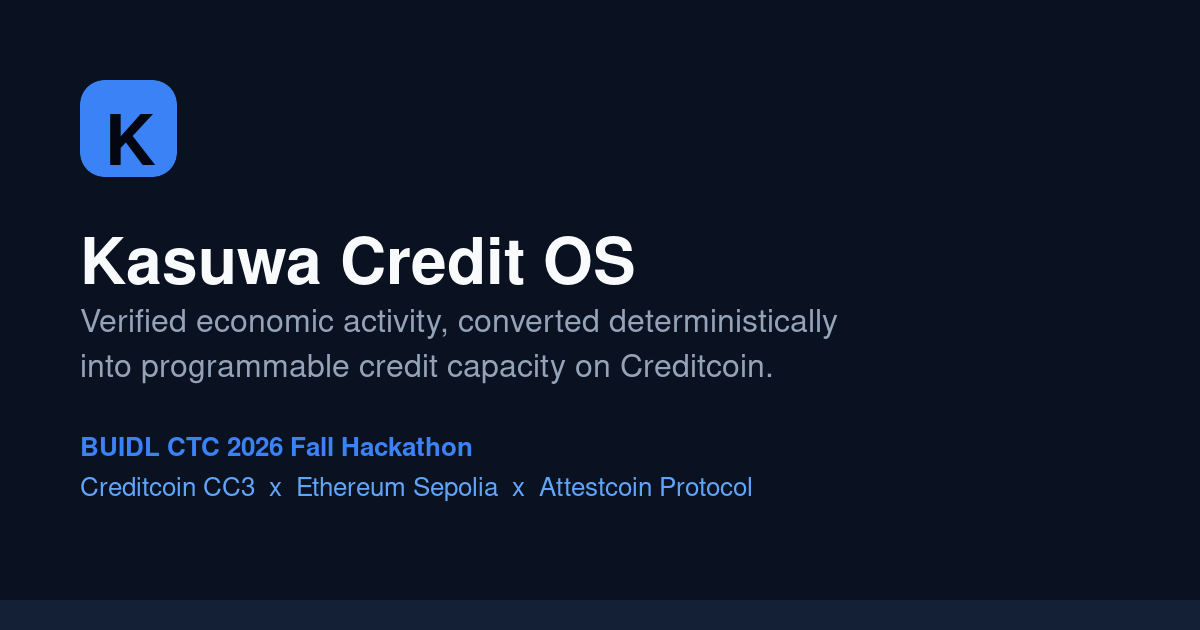
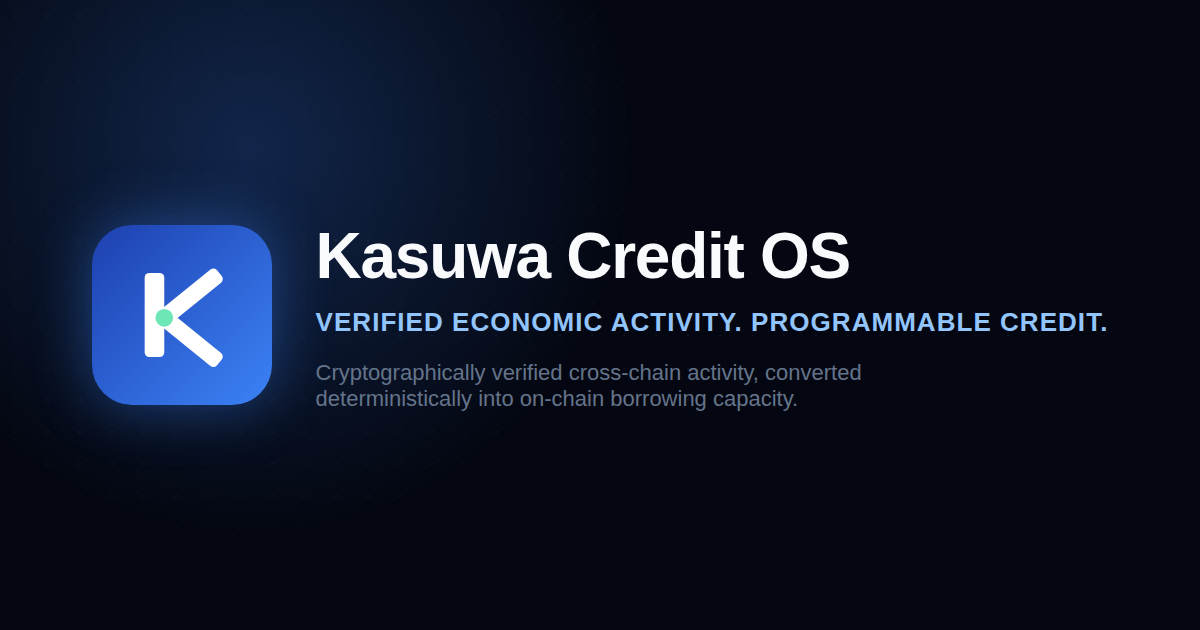
feat(ui): custom geometric brand mark, unified assets, dot-grid texture, restore demo script

Changed region(s): [[0.0308, 0.0302, 0.925, 0.7238], [0.0, 0.9349, 1.0, 1.0], [0.0617, 0.754, 0.6475, 0.7841]]

diff --git a/frontend/index.html b/frontend/index.html
@@ -38,7 +38,12 @@
   <aside class="sidebar" id="app-sidebar">
     <div class="brand-block">
       <div class="brand-gem">
-        <svg viewBox="0 0 24 24"><path d="M12 2L2 7l10 5 10-5-10-5zM2 17l10 5 10-5M2 12l10 5 10-5"/></svg>
+        <svg viewBox="0 0 24 24" class="brand-mark" aria-hidden="true" focusable="false">
+          <rect x="4" y="3" width="4.2" height="18" rx="1"/>
+          <rect x="8.2" y="10.80" width="15.2" height="3.6" rx="1" transform="rotate(-39.0 8.2 12.6)"/>
+          <rect x="8.2" y="10.80" width="15.2" height="3.6" rx="1" transform="rotate(39.0 8.2 12.6)"/>
+          <circle class="brand-mark-node" cx="8.2" cy="12.6" r="1.9"/>
+        </svg>
       </div>
       <div class="brand-text">
         <div class="title">Kasuwa</div>

diff --git a/frontend/css/styles.css b/frontend/css/styles.css
@@ -115,6 +115,8 @@ a:hover {
   display: flex;
   min-height: 100vh;
   background-color: var(--bg-base);
+  background-image: radial-gradient(circle, rgba(148, 163, 184, 0.055) 1px, transparent 1px);
+  background-size: 26px 26px;
   position: relative;
 }
 
@@ -155,9 +157,15 @@ a:hover {
 .brand-gem svg {
   width: 20px;
   height: 20px;
-  stroke: #ffffff;
-  fill: none;
-  stroke-width: 2;
+}
+
+.brand-mark rect,
+.brand-mark circle {
+  fill: #ffffff;
+}
+
+.brand-mark .brand-mark-node {
+  fill: #6ee7b7;
 }
 
 .brand-text .title {

diff --git a/docs/DEMO_VIDEO_SCRIPT.md b/docs/DEMO_VIDEO_SCRIPT.md
@@ -1,0 +1,75 @@
+# Kasuwa Credit OS — Demo Video Script
+Target length: 2:30–3:00. Read it once out loud before recording — trim anything that feels slow.
+
+## Before you hit record
+
+As of this writing, all 7 contracts (the Sepolia source contract plus all 6 CC3 contracts) are deployed and independently verified on Blockscout/Etherscan, so you can say plainly: "the full contract stack is live on Ethereum Sepolia and Creditcoin CC3." Double-check this is still true right before you record (re-run through the Judge Tour once) in case anything changed.
+
+Screen order: Vercel live app → Proof Explorer tab → Security Lab tab → one block explorer tab open in the background (Sepolia or Blockscout) to cut to.
+
+---
+
+## Script
+
+**[0:00–0:15] Hook — cold open on the problem**
+
+> "Merchants across Nigeria generate real transaction history every single day. None of it counts as credit history on-chain. Most DeFi lending still needs crypto collateral — which shuts out exactly the people with the most real economic activity to lend against."
+
+*(Screen: Vercel live app, landing view.)*
+
+**[0:15–0:40] What Kasuwa does**
+
+> "Kasuwa Credit OS turns verified, real-world economic activity into reusable, programmable credit capacity on Creditcoin. Not another isolated lending app — a credit state layer other protocols can build on top of."
+
+*(Screen: click into the Proof Explorer.)*
+
+**[0:40–1:10] Live proof walkthrough**
+
+> "Here's how it actually works. An economic event — a payment, a repayment — happens on Ethereum Sepolia. The Attestcoin Protocol proves that event happened, cryptographically, cross-chain, to Creditcoin. No bridge, no custodian, no relayer you have to trust blindly."
+
+*(Screen: walk the proof timeline step by step — source tx → attestation → verification. Open the raw proof drawer and show the Merkle root / tx receipt for a few seconds.)*
+
+> "This is a real Merkle proof against a real transaction — you can check every value yourself on the block explorer."
+
+**[1:10–1:45] Security Lab — prove the security claim, don't just say it**
+
+> "We don't just claim this is secure — we built in live attack simulators so you can watch it fail safely."
+
+*(Screen: Security Lab tab. Trigger ONE attack live — the replayed attestation or the malicious-AI one is the most visual.)*
+
+> "Watch — I'm trying to replay an already-used proof to double-credit the same transaction." *(click, wait for revert)* "Rejected on-chain: `EvidenceAlreadyConsumed`. No human moderation, no off-chain check — the contract itself refuses it."
+
+> "Same story with AI. Our system lets an AI model *recommend* a loan amount — but the smart contract enforces a hard, deterministic cap no matter what the AI says. AI can advise. AI cannot authorize."
+
+*(Optional, if time allows: switch to the Credit Facility tab and try to draw more than the $2,000 policy ceiling in the live UI — it gets rejected with "POLICY LIMIT EXCEEDED" before it ever reaches the chain. This is a nice second, very visual proof of the same point.)*
+
+**[1:45–2:10] Real evidence, not a local demo**
+
+*(Cut to the block explorer tab you already had open.)*
+
+> "This isn't running against a local test chain for the demo — these are real contracts, real transactions, on Ethereum Sepolia and Creditcoin's CC3 testnet, both deployed from the same wallet, both verifiable right here on the explorer."
+
+*(Screen: scroll the explorer page briefly — transaction hash, contract address visible.)*
+
+**[2:10–2:30] Security honesty beat (this is a differentiator, don't cut it)**
+
+> "We also audited our own threat model and found a real reentrancy bug in our borrow function — and fixed it, with tests that prove the exploit is now blocked. We'd rather show you the bug we found and fixed than pretend there wasn't one."
+
+**[2:30–2:50] Close**
+
+> "Kasuwa Credit OS: verified economic activity, into reusable, programmable credit — for anyone building on Creditcoin. Live demo and full source are linked below."
+
+*(Screen: final frame — logo + URLs.)*
+```
+https://kasuwa-credit-os.vercel.app/
+https://github.com/Xzavior34/kasuwa-credit-os
+```
+
+---
+
+## Delivery notes
+
+- Speak slightly slower than feels natural — judges are often watching at 1.25–1.5x.
+- Don't apologize or hedge on camera ("this is still a work in progress...") — state what's true, plainly, and move on.
+- If a live attack demo call is slow to revert, don't stop recording — a 2–3 second pause while the chain confirms actually reads as authentic, not scripted.
+- Cut ruthlessly if you're over 3:00 — losing the hook or the security section hurts more than losing the closing line.

diff --git a/README.md b/README.md
@@ -10,7 +10,7 @@ application; the credit state is the product — any protocol on Creditcoin can 
 - **Live Production Console**: https://kasuwa-credit-os.vercel.app/
 - **GitHub Repository**: https://github.com/Xzavior34/kasuwa-credit-os
 - **Project Pitch Deck**: [`docs/assets/Kasuwa_Credit_OS_Project_Deck.pdf`](docs/assets/Kasuwa_Credit_OS_Project_Deck.pdf)
-- **Demo Video**: not yet recorded — see the open item in `docs/DEMO.md` (script ready: [`Claude outputs/Kasuwa_Demo_Video_Script.md`](Claude%20outputs/Kasuwa_Demo_Video_Script.md))
+- **Demo Video**: not yet recorded — see the open item in `docs/DEMO.md` (script ready: [`docs/DEMO_VIDEO_SCRIPT.md`](docs/DEMO_VIDEO_SCRIPT.md))
 - **TypeScript Client SDK**: [`src/sdk/KasuwaSDK.ts`](src/sdk/KasuwaSDK.ts) — reference client, not yet published to npm
 - **Adversarial Verification Matrix**: [`docs/ADVERSARIAL_VERIFICATION.md`](docs/ADVERSARIAL_VERIFICATION.md) (47/47 Passing Invariant Tests)
 

diff --git a/docs/DEMO.md b/docs/DEMO.md
@@ -3,7 +3,7 @@
 ## Open item: recorded demo video
 
 The hackathon's own submission requirements ask for a Prototype Demo Video URL. A full narration
-script exists (`Claude outputs/Kasuwa_Demo_Video_Script.md`) but no video has been recorded or
+script exists (`docs/DEMO_VIDEO_SCRIPT.md`) but no video has been recorded or
 uploaded yet — this is outstanding and should be treated as a priority before the submission
 deadline, independent of everything else in this document being complete and verified.
 
